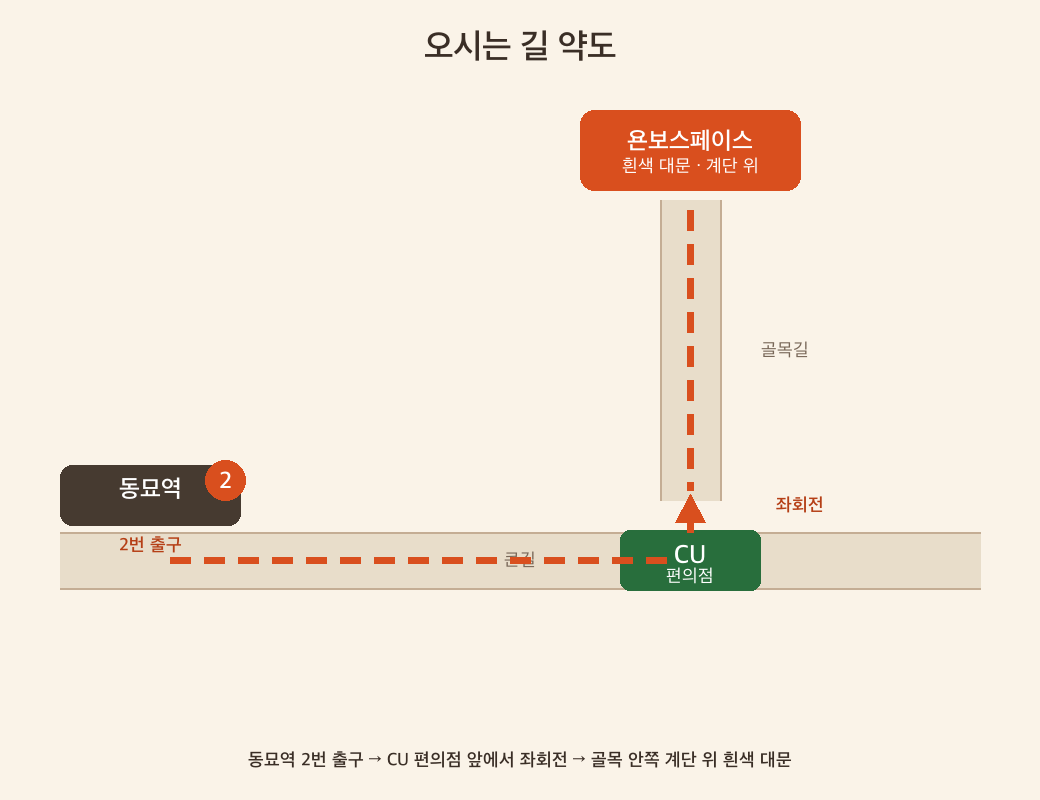
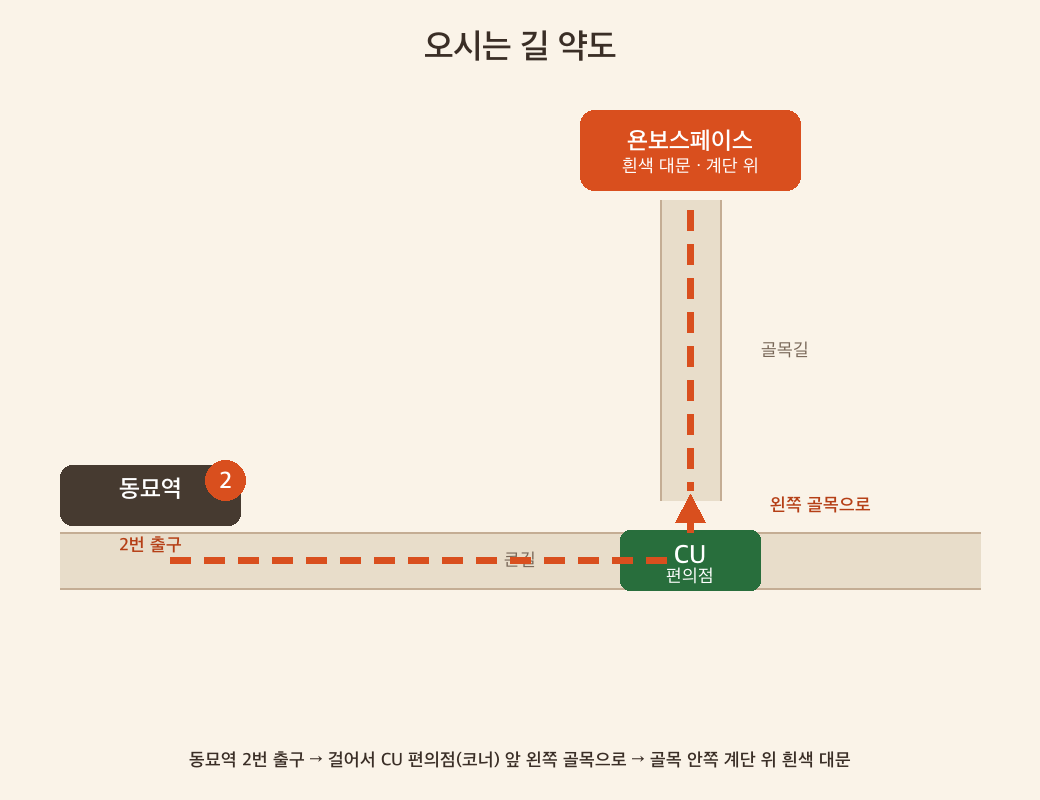
약도 문구 수정: '좌회전' -> '왼쪽 골목으로' (도보 안내에 맞게)

Changed region(s): [[0.1846, 0.9375, 0.8308, 0.9688], [0.7385, 0.5938, 0.8308, 0.6562]]

diff --git a/homepage-v2/index.html b/homepage-v2/index.html
@@ -309,7 +309,7 @@
         </div>
         <div class="visit-grid">
           <div class="visit-photo-frame visit-photo-frame--map">
-            <img src="images/direction-map.png" alt="동묘역 2번 출구에서 CU 편의점을 지나 우회전 후 골목 안쪽 욘보스페이스까지 오는 길을 보여주는 약도" />
+            <img src="images/direction-map.png" alt="동묘역 2번 출구에서 걸어서 CU 편의점 코너 앞 왼쪽 골목으로 들어가면 나오는 욘보스페이스 오시는 길 약도" />
           </div>
           <div>
             <ul class="visit-detail-list">
